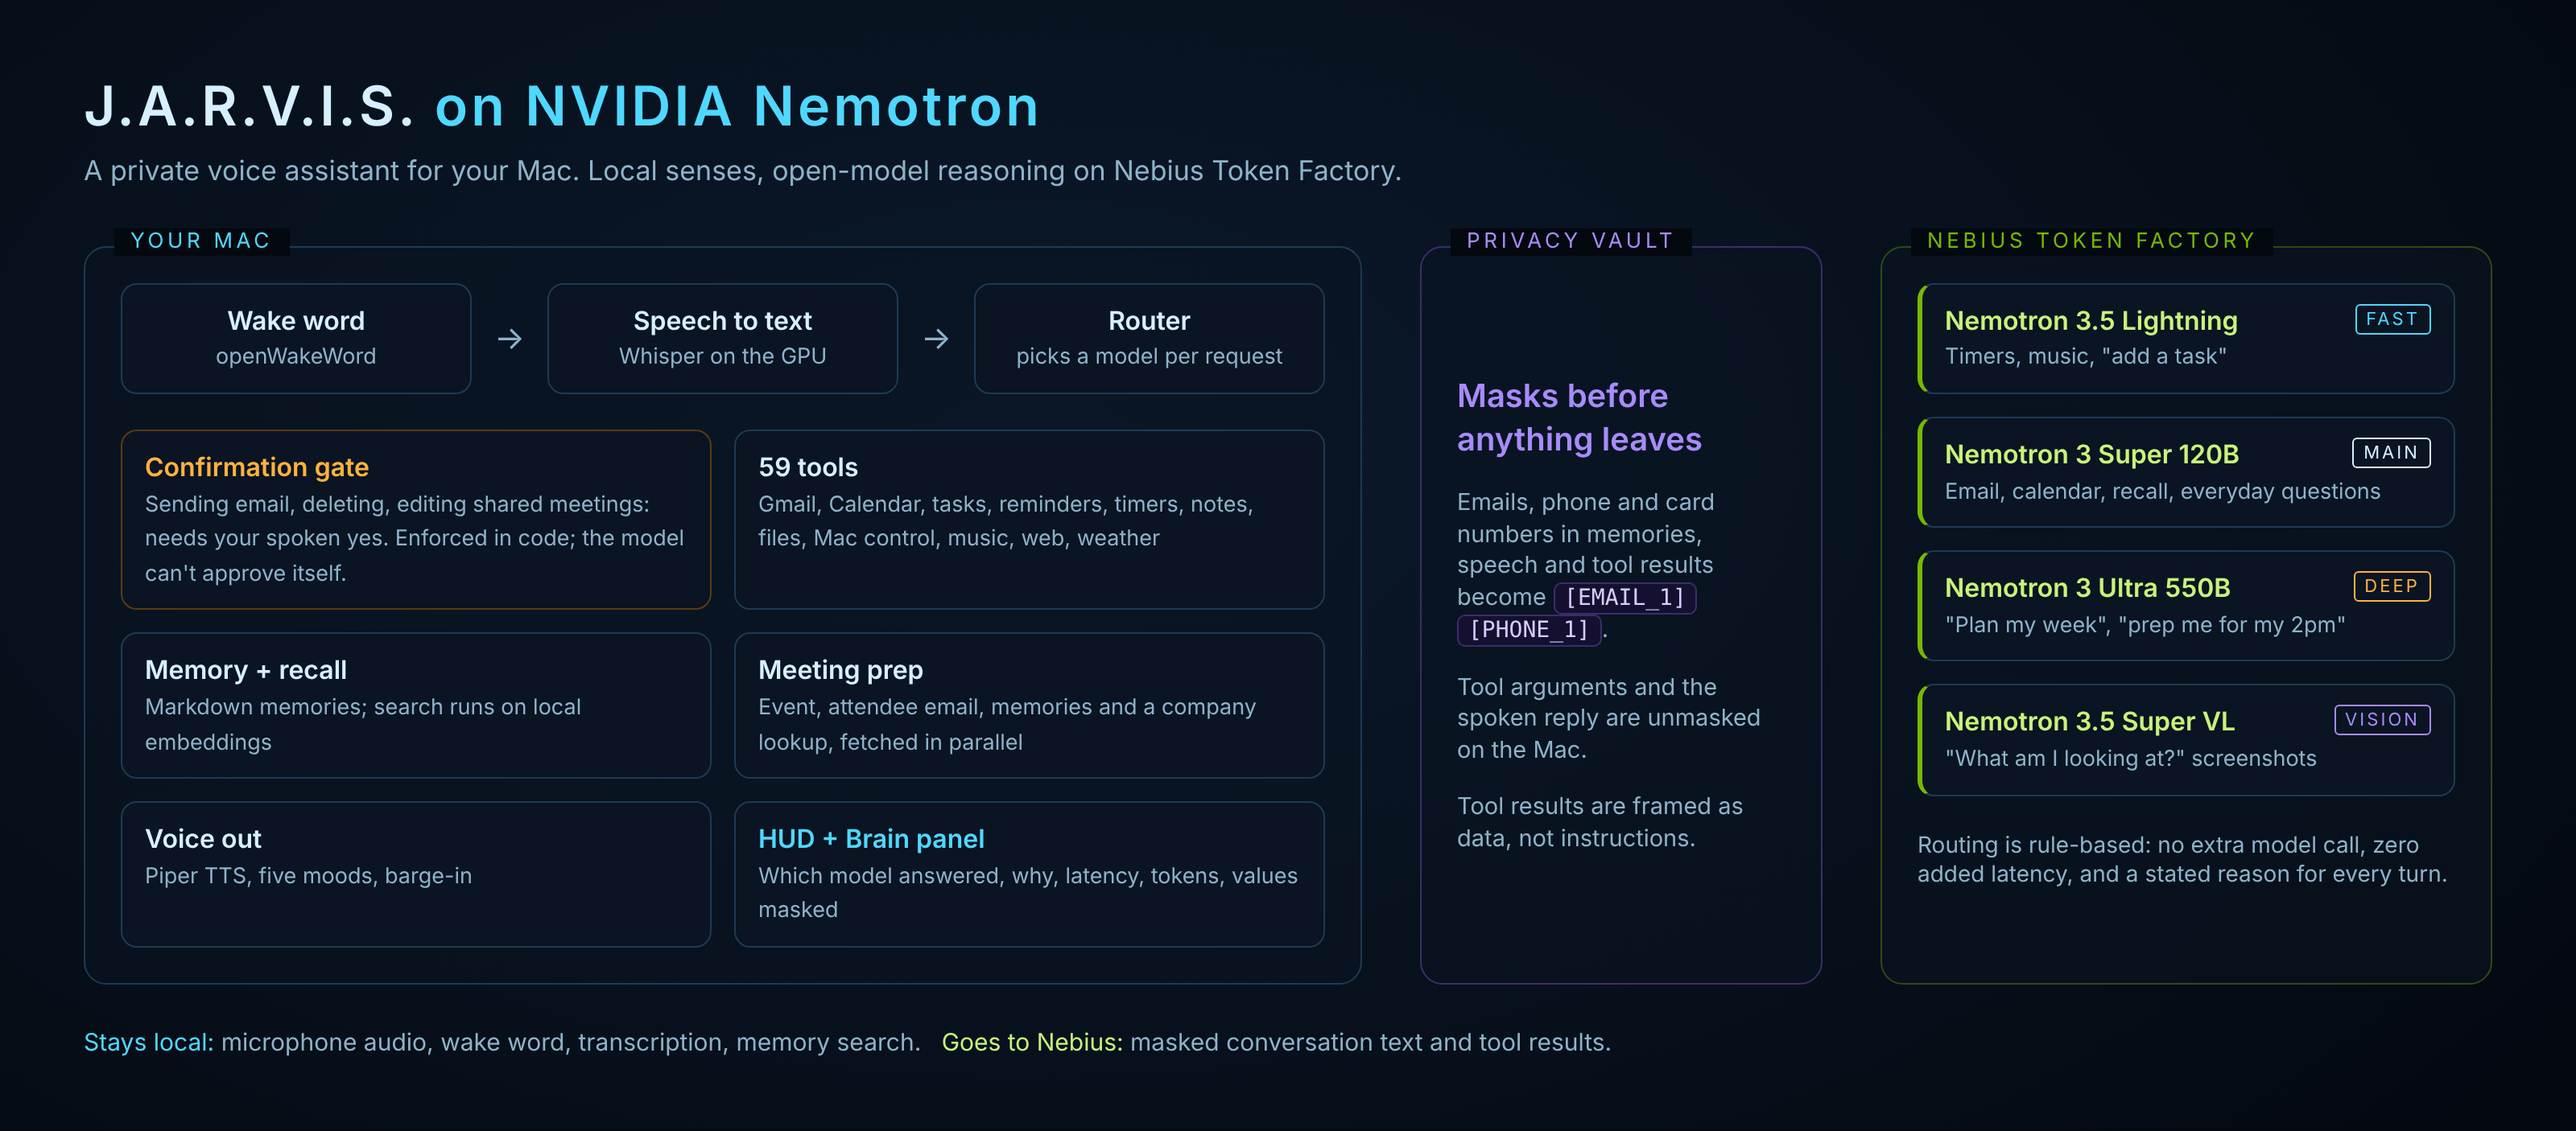
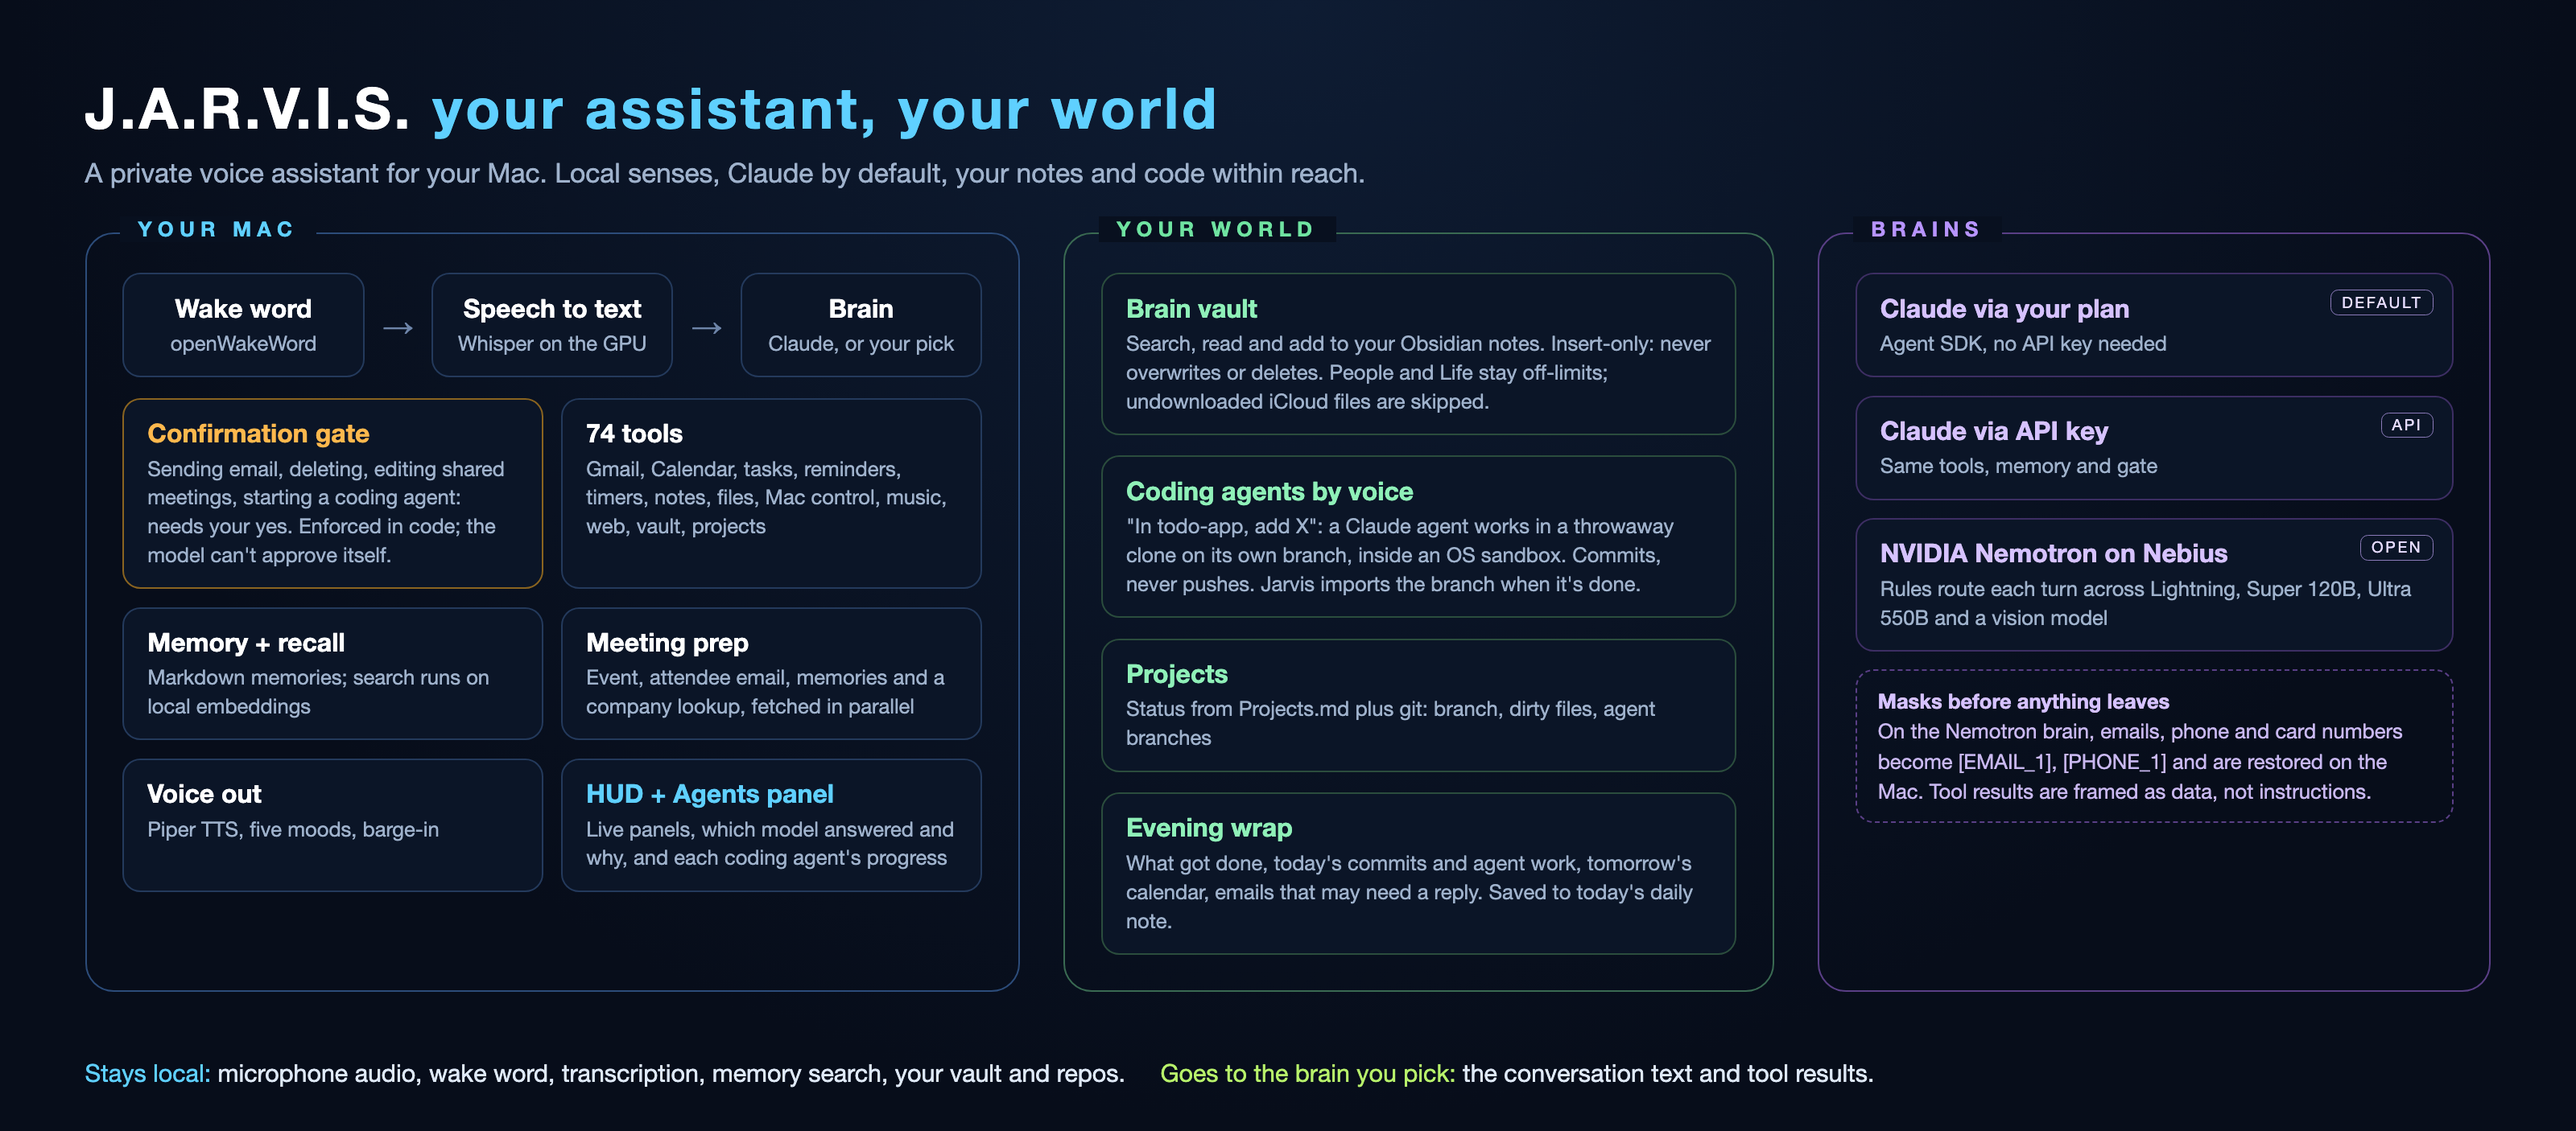
docs: redraw the architecture diagram for Claude-first, vault, agents and wrap

diff --git a/docs/jarvis-architecture.html b/docs/jarvis-architecture.html
@@ -1,0 +1,64 @@
+<!doctype html>
+<html><head><meta charset="utf-8"><title>J.A.R.V.I.S. architecture</title>
+<style>
+*{box-sizing:border-box;margin:0}
+body{width:2000px;height:879px;background:radial-gradient(ellipse at top,#0e1c33,#070d1a 70%);font-family:-apple-system,"Inter","Helvetica Neue",Arial,sans-serif;color:#dfe9f7;padding:56px 66px;position:relative;overflow:hidden}
+h1{font-size:44px;font-weight:700;letter-spacing:.06em;color:#fff}
+h1 span{color:#5fd0ff}
+.sub{font-size:21px;color:#9fb2cc;margin-top:12px}
+.cols{display:grid;grid-template-columns:1.25fr .95fr .9fr;gap:34px;margin-top:34px}
+.col{border:1.5px solid #243a5c;border-radius:22px;padding:30px 28px 26px;position:relative;height:590px}
+.col>.tag{position:absolute;top:-14px;left:26px;background:#08101f;padding:0 14px;font-size:16px;letter-spacing:.28em;font-weight:600}
+.mac{border-color:#2c4c7a}.mac>.tag{color:#5fd0ff}
+.world{border-color:#3a6a52}.world>.tag{color:#6fe3a1}
+.brain{border-color:#5a3f86}.brain>.tag{color:#b794ff}
+.row{display:flex;align-items:center;gap:14px;margin-bottom:16px}
+.box{border:1.5px solid #243a5c;border-radius:14px;background:#0b1527;padding:14px 18px;flex:1}
+.box b{display:block;font-size:20px;color:#fff;margin-bottom:4px}
+.box i{font-style:normal;font-size:16px;color:#9fb2cc;line-height:1.4}
+.arrow{color:#6d84a8;font-size:24px}
+.gate{border-color:#8a6420}.gate b{color:#ffb84d}
+.hud b{color:#5fd0ff}
+.grid2{display:grid;grid-template-columns:1fr 1fr;gap:14px}
+.world .box{border-color:#2b4d3d}
+.world .box b{color:#8ff0b8}
+.brain .box{border-color:#3d2e63;position:relative}
+.brain .box b{color:#d6c2ff}
+.chip{position:absolute;top:12px;right:14px;font-size:12px;letter-spacing:.14em;border:1px solid #8a7ab8;border-radius:6px;padding:2px 8px;color:#e6dcff}
+.vault{margin-top:4px;border:1.5px dashed #5a3f86;border-radius:14px;padding:12px 16px;font-size:16px;color:#c9b8f0;line-height:1.45}
+.foot{position:absolute;left:66px;bottom:34px;font-size:19px}
+.foot .a{color:#5fd0ff}.foot .b{color:#b8f26b;margin-left:22px}
+</style></head><body>
+<h1>J.A.R.V.I.S. <span>your assistant, your world</span></h1>
+<div class="sub">A private voice assistant for your Mac. Local senses, Claude by default, your notes and code within reach.</div>
+<div class="cols">
+  <div class="col mac"><div class="tag">YOUR MAC</div>
+    <div class="row">
+      <div class="box"><b style="text-align:center">Wake word</b><i style="display:block;text-align:center">openWakeWord</i></div><span class="arrow">→</span>
+      <div class="box"><b style="text-align:center">Speech to text</b><i style="display:block;text-align:center">Whisper on the GPU</i></div><span class="arrow">→</span>
+      <div class="box"><b style="text-align:center">Brain</b><i style="display:block;text-align:center">Claude, or your pick</i></div>
+    </div>
+    <div class="grid2">
+      <div class="box gate"><b>Confirmation gate</b><i>Sending email, deleting, editing shared meetings, starting a coding agent: needs your yes. Enforced in code; the model can't approve itself.</i></div>
+      <div class="box"><b>74 tools</b><i>Gmail, Calendar, tasks, reminders, timers, notes, files, Mac control, music, web, vault, projects</i></div>
+      <div class="box"><b>Memory + recall</b><i>Markdown memories; search runs on local embeddings</i></div>
+      <div class="box"><b>Meeting prep</b><i>Event, attendee email, memories and a company lookup, fetched in parallel</i></div>
+      <div class="box"><b>Voice out</b><i>Piper TTS, five moods, barge-in</i></div>
+      <div class="box hud"><b>HUD + Agents panel</b><i>Live panels, which model answered and why, and each coding agent's progress</i></div>
+    </div>
+  </div>
+  <div class="col world"><div class="tag">YOUR WORLD</div>
+    <div class="box" style="margin-bottom:16px"><b>Brain vault</b><i>Search, read and add to your Obsidian notes. Insert-only: never overwrites or deletes. People and Life stay off-limits; undownloaded iCloud files are skipped.</i></div>
+    <div class="box" style="margin-bottom:16px"><b>Coding agents by voice</b><i>"In todo-app, add X": a Claude agent works in a throwaway clone on its own branch, inside an OS sandbox. Commits, never pushes. Jarvis imports the branch when it's done.</i></div>
+    <div class="box" style="margin-bottom:16px"><b>Projects</b><i>Status from Projects.md plus git: branch, dirty files, agent branches</i></div>
+    <div class="box"><b>Evening wrap</b><i>What got done, today's commits and agent work, tomorrow's calendar, emails that may need a reply. Saved to today's daily note.</i></div>
+  </div>
+  <div class="col brain"><div class="tag">BRAINS</div>
+    <div class="box" style="margin-bottom:14px"><span class="chip">DEFAULT</span><b>Claude via your plan</b><i>Agent SDK, no API key needed</i></div>
+    <div class="box" style="margin-bottom:14px"><span class="chip">API</span><b>Claude via API key</b><i>Same tools, memory and gate</i></div>
+    <div class="box" style="margin-bottom:14px"><span class="chip">OPEN</span><b>NVIDIA Nemotron on Nebius</b><i>Rules route each turn across Lightning, Super 120B, Ultra 550B and a vision model</i></div>
+    <div class="vault"><b style="color:#d6c2ff">Masks before anything leaves</b><br>On the Nemotron brain, emails, phone and card numbers become [EMAIL_1], [PHONE_1] and are restored on the Mac. Tool results are framed as data, not instructions.</div>
+  </div>
+</div>
+<div class="foot"><span class="a">Stays local:</span> microphone audio, wake word, transcription, memory search, your vault and repos. <span class="b">Goes to the brain you pick:</span> the conversation text and tool results.</div>
+</body></html>
